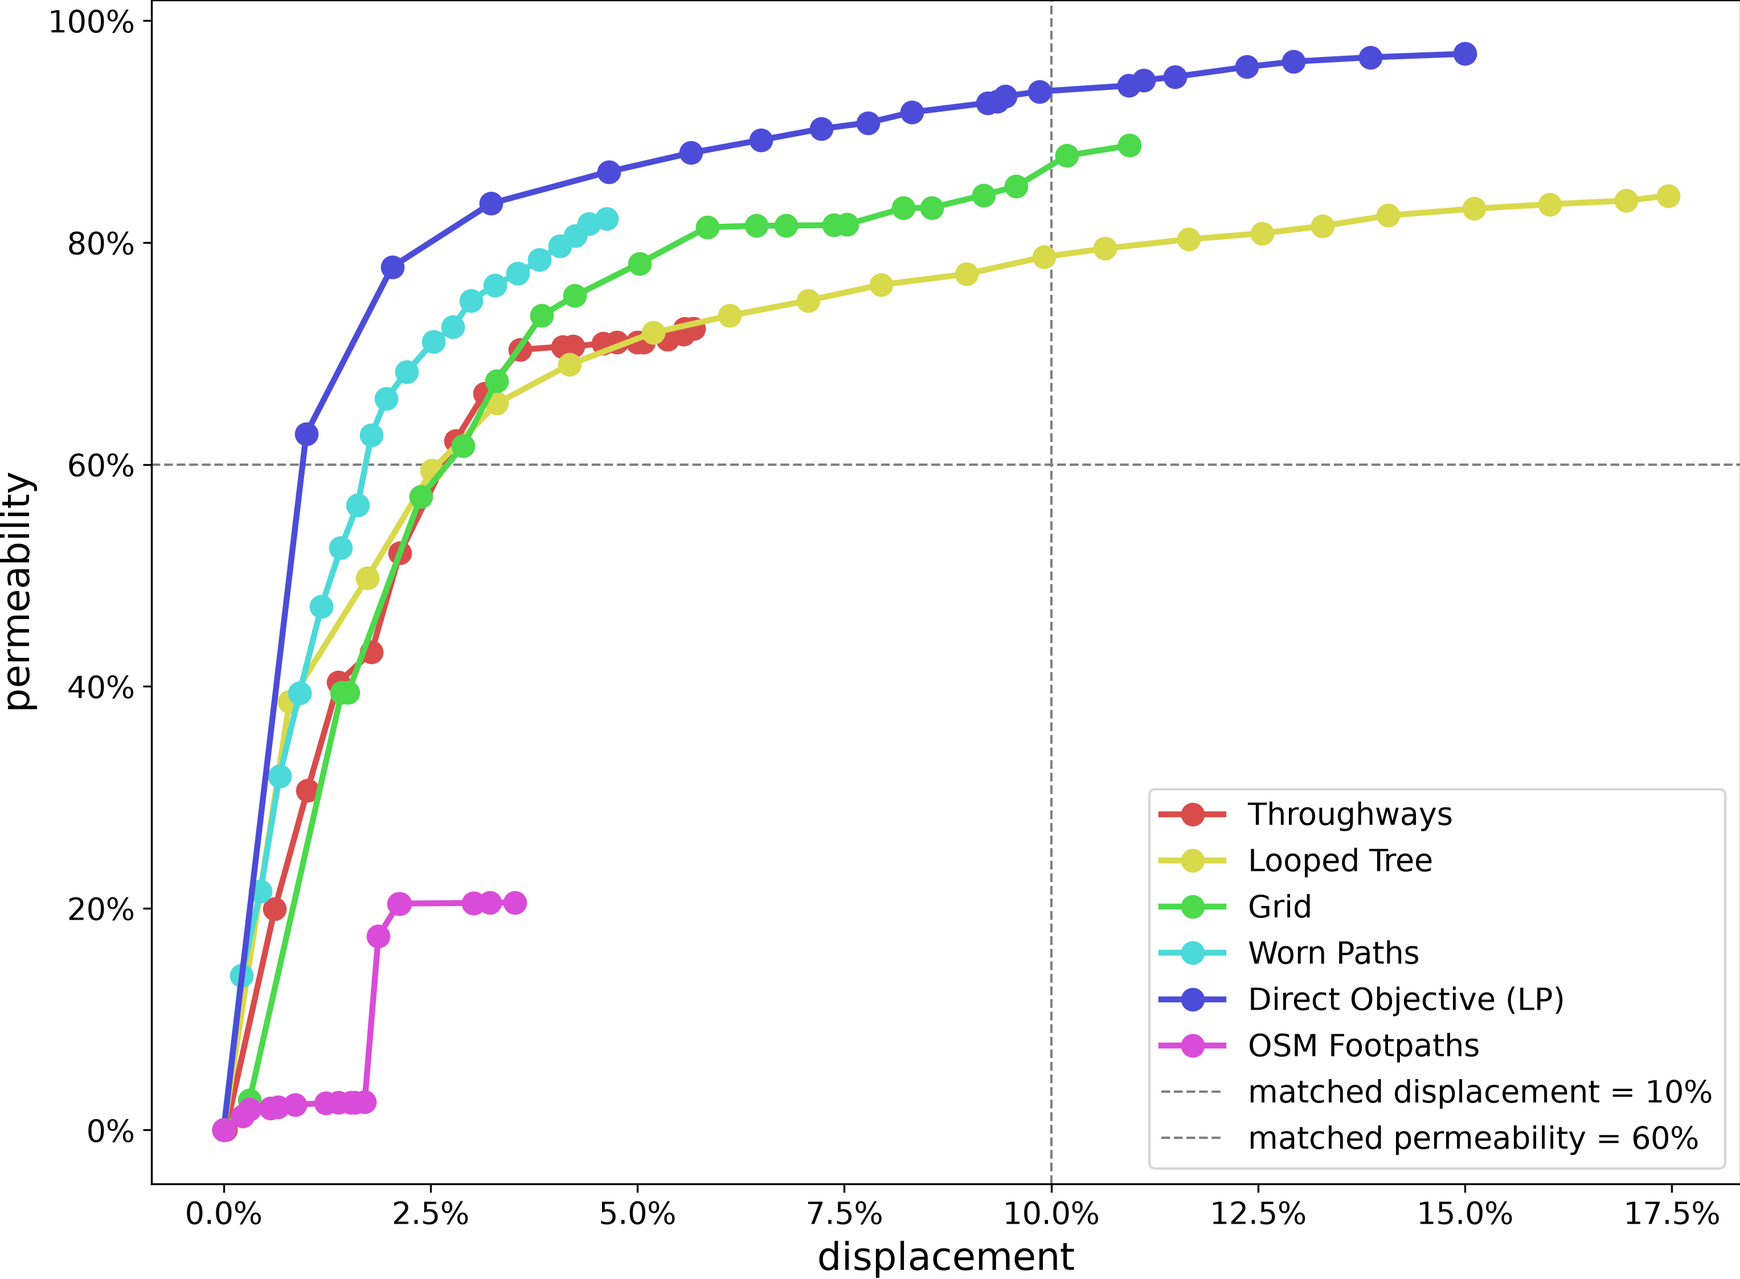
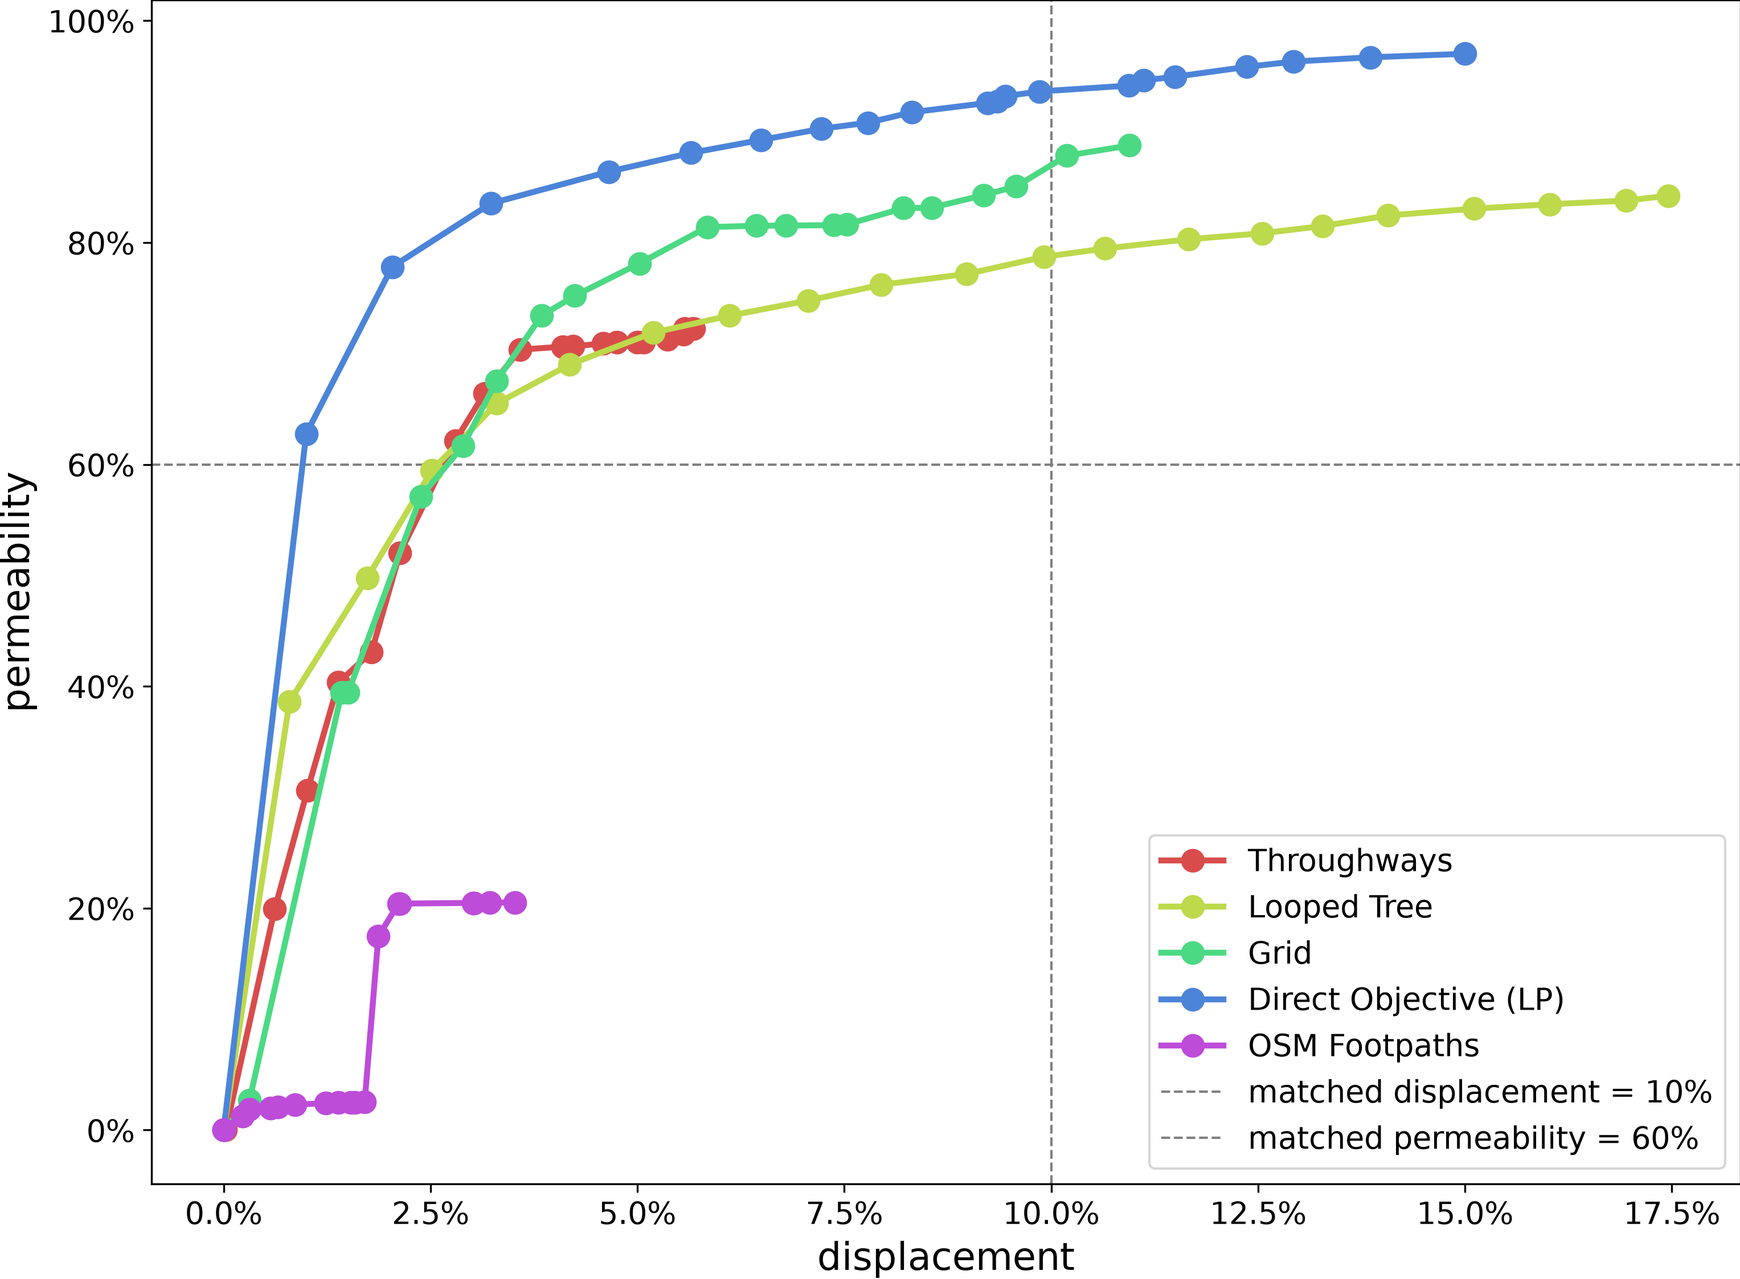
examples: drop flow_paths from the curated method set
Five methods now: clearance_looped (the flagship), greedy_arterial_repulsion,
euclidean_grid, resistance_lp, and osm_footpaths as the real-network reference
rather than a competitor -- it is a fixed input, so it is the one entry that can
fail to reach P*.

flow_paths exists as the real-footpath MIMICRY probe: it reproduces footpath
POSITION but not geometry, which answers a question about realism rather than
about reblocking quality. It stays registered in all_methods, and the module
docstring records the one measurement arguing for its return -- on the depth
region it reached P* with FEWER metres than any other method (2,088 m at 1.69%
against clearance_looped's 2,818 m at 2.68%), so it is not dominated and it sits
on that region's Pareto frontier.

Also fixes a module docstring that had gone stale: it claimed osm_footpaths was
LEFT OUT of the two-lens comparison, which stopped being true some time ago. It
now states what the curation is and why.

Lens B (primary), displacement to reach P* = 0.60:

  region              clearance_looped   resistance_lp
  depth               2,818 m / 2.68%    2,302 m / 0.92%   dominates both axes
  depth_density         965 m / 4.71%    1,338 m / 1.63%   2.9x fewer homes
  density_compactness 1,451 m / 5.46%    1,949 m / 4.28%   near-balanced

527 passed, lint and mypy --strict clean; no orphaned flow_paths artifacts.

Claude-Session: https://claude.ai/code/session_013nyiMR7YotYFswJtbJY25N

diff --git a/scripts/gen_multiblock_example.py b/scripts/gen_multiblock_example.py
@@ -5,10 +5,18 @@ colouring -- into `examples/multiblock_<metric>/`. Then the pure dir-reader gene
 (`scripts.gen_example_readme`) turns the run's artifacts + a small `meta.json` into `README.md`, so
 the prose can never drift from the numbers.
 
-`osm_footpaths` is left out of the two-lens method comparison here: its desire-line snapshot is
-region-specific and each metric picks a DIFFERENT region, so a fair osm run would need a fresh OSM
-fetch per variant. `clearance` + `greedy_arterial` already demonstrate the two lenses on whatever
-region the metric chose -- which is the point of the variant.
+The method set is curated, not the whole registry: four synthetic methods spanning distinct
+mechanisms -- `clearance_looped` (drainage tree + loop closure, the flagship),
+`greedy_arterial_repulsion` (CELF greedy), `euclidean_grid` (fixed spacing), `resistance_lp` (the
+objective optimized directly over paths) -- plus `osm_footpaths`, the real as-built network, as a
+reference rather than a competitor. It is a fixed input, so it is the one entry that can fail to
+reach P*.
+
+`flow_paths` was dropped from the comparison: it exists as the real-footpath MIMICRY probe (it
+reproduces footpath position but not geometry), which is a question about realism, not about
+reblocking quality. It stays registered in `all_methods` and is still worth re-adding if the
+question becomes "what do the synthetic methods miss" -- on the depth region it reached P* with
+FEWER metres than any other method, so it is not dominated.
 
 Run:  pixi run python -m scripts.gen_multiblock_example <depth|depth_density>
 """
@@ -140,7 +148,6 @@ def main() -> None:
         "all_methods.clearance_looped.base.max_roads=3000",
         "all_methods.clearance_looped.budget_frac=0.30",
         "all_methods.clearance_looped.search_radius_m=60",
-        "+all_methods.flow_paths.max_sources=1500",
         # `resistance_lp` is the only method with an INTERNAL displacement budget, so it must be
         # given headroom above the lens's own D or it is treated differently from everything else:
         # every other method proposes a full network and lets the lens truncate, while an LP capped
@@ -191,7 +198,7 @@ def main() -> None:
 
         methods = {n: cast(Method, instantiate(cfg.all_methods[n]))
                    for n in ("greedy_arterial_repulsion", "clearance_looped", "euclidean_grid",
-                             "flow_paths", "resistance_lp")}
+                             "resistance_lp")}
         # osm_footpaths: the real as-built informal network, from a committed per-region OSM
         # snapshot (fetched once by scripts.fetch_desire_lines_snapshot) so the example
         # reproduces offline.

diff --git a/examples/multiblock_depth/README.md b/examples/multiblock_depth/README.md
@@ -37,9 +37,9 @@ The frontier is the whole trade-off: **permeability** (benefit — the only bene
 
 **Watch each method reblock** — its full road set added in drainage order, the deep interior draining as the network reaches in:
 
-| Looped Tree | Grid | Worn Paths | Throughways | OSM Footpaths | Direct Objective (LP) |
-|---|---|---|---|---|---|
-| ![Looped Tree](reblock_clearance_looped.gif) | ![Grid](reblock_euclidean_grid.gif) | ![Worn Paths](reblock_flow_paths.gif) | ![Throughways](reblock_greedy_arterial_repulsion.gif) | ![OSM Footpaths](reblock_osm_footpaths.gif) | ![Direct Objective (LP)](reblock_resistance_lp.gif) |
+| Looped Tree | Grid | Throughways | OSM Footpaths | Direct Objective (LP) |
+|---|---|---|---|---|
+| ![Looped Tree](reblock_clearance_looped.gif) | ![Grid](reblock_euclidean_grid.gif) | ![Throughways](reblock_greedy_arterial_repulsion.gif) | ![OSM Footpaths](reblock_osm_footpaths.gif) | ![Direct Objective (LP)](reblock_resistance_lp.gif) |
 
 ### Matched permeability (primary)
 
@@ -49,22 +49,21 @@ Every method truncated where permeability first reaches the standard target, so 
 |---|---|---|---|---|
 | Looped Tree | 2,818 m | 2.7% | 60.2% |  |
 | Grid | 3,163 m | 2.8% | 61.6% |  |
-| Worn Paths | 2,088 m | 1.7% | 60.2% |  |
 | Throughways | 3,660 m | 2.8% | 60.3% |  |
 | OSM Footpaths | 7,674 m | 3.5% | 20.5% | unreached |
 | Direct Objective (LP) | 2,302 m | 0.9% | 60.5% |  |
 
 Access-depth coloring:
 
-| Looped Tree | Grid | Worn Paths | Throughways | OSM Footpaths | Direct Objective (LP) |
-|---|---|---|---|---|---|
-| ![Looped Tree](after_clearance_looped_perm_depth.png) | ![Grid](after_euclidean_grid_perm_depth.png) | ![Worn Paths](after_flow_paths_perm_depth.png) | ![Throughways](after_greedy_arterial_repulsion_perm_depth.png) | ![OSM Footpaths](after_osm_footpaths_perm_depth.png) | ![Direct Objective (LP)](after_resistance_lp_perm_depth.png) |
+| Looped Tree | Grid | Throughways | OSM Footpaths | Direct Objective (LP) |
+|---|---|---|---|---|
+| ![Looped Tree](after_clearance_looped_perm_depth.png) | ![Grid](after_euclidean_grid_perm_depth.png) | ![Throughways](after_greedy_arterial_repulsion_perm_depth.png) | ![OSM Footpaths](after_osm_footpaths_perm_depth.png) | ![Direct Objective (LP)](after_resistance_lp_perm_depth.png) |
 
 Permeability-potential coloring:
 
-| Looped Tree | Grid | Worn Paths | Throughways | OSM Footpaths | Direct Objective (LP) |
-|---|---|---|---|---|---|
-| ![Looped Tree](after_clearance_looped_perm_perm.png) | ![Grid](after_euclidean_grid_perm_perm.png) | ![Worn Paths](after_flow_paths_perm_perm.png) | ![Throughways](after_greedy_arterial_repulsion_perm_perm.png) | ![OSM Footpaths](after_osm_footpaths_perm_perm.png) | ![Direct Objective (LP)](after_resistance_lp_perm_perm.png) |
+| Looped Tree | Grid | Throughways | OSM Footpaths | Direct Objective (LP) |
+|---|---|---|---|---|
+| ![Looped Tree](after_clearance_looped_perm_perm.png) | ![Grid](after_euclidean_grid_perm_perm.png) | ![Throughways](after_greedy_arterial_repulsion_perm_perm.png) | ![OSM Footpaths](after_osm_footpaths_perm_perm.png) | ![Direct Objective (LP)](after_resistance_lp_perm_perm.png) |
 
 ### Matched displacement (secondary)
 
@@ -74,22 +73,21 @@ Every method truncated to the same displacement %, so this compares the **permea
 |---|---|---|---|---|
 | Looped Tree | 10,040 m | 10.0% | 78.7% |  |
 | Grid | 12,194 m | 10.2% | 87.8% |  |
-| Worn Paths | 5,635 m | 4.6% | 82.2% | converged below budget |
 | Throughways | 11,437 m | 5.7% | 72.3% | converged below budget |
 | OSM Footpaths | 7,674 m | 3.5% | 20.5% | converged below budget |
 | Direct Objective (LP) | 33,660 m | 10.0% | 93.7% |  |
 
 Access-depth coloring:
 
-| Looped Tree | Grid | Worn Paths | Throughways | OSM Footpaths | Direct Objective (LP) |
-|---|---|---|---|---|---|
-| ![Looped Tree](after_clearance_looped_disp_depth.png) | ![Grid](after_euclidean_grid_disp_depth.png) | ![Worn Paths](after_flow_paths_disp_depth.png) | ![Throughways](after_greedy_arterial_repulsion_disp_depth.png) | ![OSM Footpaths](after_osm_footpaths_disp_depth.png) | ![Direct Objective (LP)](after_resistance_lp_disp_depth.png) |
+| Looped Tree | Grid | Throughways | OSM Footpaths | Direct Objective (LP) |
+|---|---|---|---|---|
+| ![Looped Tree](after_clearance_looped_disp_depth.png) | ![Grid](after_euclidean_grid_disp_depth.png) | ![Throughways](after_greedy_arterial_repulsion_disp_depth.png) | ![OSM Footpaths](after_osm_footpaths_disp_depth.png) | ![Direct Objective (LP)](after_resistance_lp_disp_depth.png) |
 
 Permeability-potential coloring:
 
-| Looped Tree | Grid | Worn Paths | Throughways | OSM Footpaths | Direct Objective (LP) |
-|---|---|---|---|---|---|
-| ![Looped Tree](after_clearance_looped_disp_perm.png) | ![Grid](after_euclidean_grid_disp_perm.png) | ![Worn Paths](after_flow_paths_disp_perm.png) | ![Throughways](after_greedy_arterial_repulsion_disp_perm.png) | ![OSM Footpaths](after_osm_footpaths_disp_perm.png) | ![Direct Objective (LP)](after_resistance_lp_disp_perm.png) |
+| Looped Tree | Grid | Throughways | OSM Footpaths | Direct Objective (LP) |
+|---|---|---|---|---|
+| ![Looped Tree](after_clearance_looped_disp_perm.png) | ![Grid](after_euclidean_grid_disp_perm.png) | ![Throughways](after_greedy_arterial_repulsion_disp_perm.png) | ![OSM Footpaths](after_osm_footpaths_disp_perm.png) | ![Direct Objective (LP)](after_resistance_lp_disp_perm.png) |
 
 
 ## How this was generated

diff --git a/examples/multiblock_density_compactness/README.md b/examples/multiblock_density_compactness/README.md
@@ -37,9 +37,9 @@ The frontier is the whole trade-off: **permeability** (benefit — the only bene
 
 **Watch each method reblock** — its full road set added in drainage order, the deep interior draining as the network reaches in:
 
-| Looped Tree | Grid | Worn Paths | Throughways | OSM Footpaths | Direct Objective (LP) |
-|---|---|---|---|---|---|
-| ![Looped Tree](reblock_clearance_looped.gif) | ![Grid](reblock_euclidean_grid.gif) | ![Worn Paths](reblock_flow_paths.gif) | ![Throughways](reblock_greedy_arterial_repulsion.gif) | ![OSM Footpaths](reblock_osm_footpaths.gif) | ![Direct Objective (LP)](reblock_resistance_lp.gif) |
+| Looped Tree | Grid | Throughways | OSM Footpaths | Direct Objective (LP) |
+|---|---|---|---|---|
+| ![Looped Tree](reblock_clearance_looped.gif) | ![Grid](reblock_euclidean_grid.gif) | ![Throughways](reblock_greedy_arterial_repulsion.gif) | ![OSM Footpaths](reblock_osm_footpaths.gif) | ![Direct Objective (LP)](reblock_resistance_lp.gif) |
 
 ### Matched permeability (primary)
 
@@ -49,22 +49,21 @@ Every method truncated where permeability first reaches the standard target, so 
 |---|---|---|---|---|
 | Looped Tree | 1,451 m | 5.5% | 60.4% |  |
 | Grid | 3,678 m | 9.3% | 60.4% |  |
-| Worn Paths | 2,403 m | 7.9% | 60.1% |  |
 | Throughways | 3,569 m | 10.9% | 60.0% |  |
 | OSM Footpaths | 2,478 m | 8.0% | 60.1% |  |
 | Direct Objective (LP) | 1,949 m | 4.3% | 60.1% |  |
 
 Access-depth coloring:
 
-| Looped Tree | Grid | Worn Paths | Throughways | OSM Footpaths | Direct Objective (LP) |
-|---|---|---|---|---|---|
-| ![Looped Tree](after_clearance_looped_perm_depth.png) | ![Grid](after_euclidean_grid_perm_depth.png) | ![Worn Paths](after_flow_paths_perm_depth.png) | ![Throughways](after_greedy_arterial_repulsion_perm_depth.png) | ![OSM Footpaths](after_osm_footpaths_perm_depth.png) | ![Direct Objective (LP)](after_resistance_lp_perm_depth.png) |
+| Looped Tree | Grid | Throughways | OSM Footpaths | Direct Objective (LP) |
+|---|---|---|---|---|
+| ![Looped Tree](after_clearance_looped_perm_depth.png) | ![Grid](after_euclidean_grid_perm_depth.png) | ![Throughways](after_greedy_arterial_repulsion_perm_depth.png) | ![OSM Footpaths](after_osm_footpaths_perm_depth.png) | ![Direct Objective (LP)](after_resistance_lp_perm_depth.png) |
 
 Permeability-potential coloring:
 
-| Looped Tree | Grid | Worn Paths | Throughways | OSM Footpaths | Direct Objective (LP) |
-|---|---|---|---|---|---|
-| ![Looped Tree](after_clearance_looped_perm_perm.png) | ![Grid](after_euclidean_grid_perm_perm.png) | ![Worn Paths](after_flow_paths_perm_perm.png) | ![Throughways](after_greedy_arterial_repulsion_perm_perm.png) | ![OSM Footpaths](after_osm_footpaths_perm_perm.png) | ![Direct Objective (LP)](after_resistance_lp_perm_perm.png) |
+| Looped Tree | Grid | Throughways | OSM Footpaths | Direct Objective (LP) |
+|---|---|---|---|---|
+| ![Looped Tree](after_clearance_looped_perm_perm.png) | ![Grid](after_euclidean_grid_perm_perm.png) | ![Throughways](after_greedy_arterial_repulsion_perm_perm.png) | ![OSM Footpaths](after_osm_footpaths_perm_perm.png) | ![Direct Objective (LP)](after_resistance_lp_perm_perm.png) |
 
 ### Matched displacement (secondary)
 
@@ -74,22 +73,21 @@ Every method truncated to the same displacement %, so this compares the **permea
 |---|---|---|---|---|
 | Looped Tree | 2,710 m | 10.1% | 74.7% |  |
 | Grid | 3,945 m | 10.1% | 61.9% |  |
-| Worn Paths | 2,976 m | 10.0% | 67.2% |  |
 | Throughways | 3,254 m | 10.1% | 57.4% |  |
 | OSM Footpaths | 3,228 m | 10.2% | 65.4% |  |
 | Direct Objective (LP) | 5,557 m | 10.0% | 79.8% |  |
 
 Access-depth coloring:
 
-| Looped Tree | Grid | Worn Paths | Throughways | OSM Footpaths | Direct Objective (LP) |
-|---|---|---|---|---|---|
-| ![Looped Tree](after_clearance_looped_disp_depth.png) | ![Grid](after_euclidean_grid_disp_depth.png) | ![Worn Paths](after_flow_paths_disp_depth.png) | ![Throughways](after_greedy_arterial_repulsion_disp_depth.png) | ![OSM Footpaths](after_osm_footpaths_disp_depth.png) | ![Direct Objective (LP)](after_resistance_lp_disp_depth.png) |
+| Looped Tree | Grid | Throughways | OSM Footpaths | Direct Objective (LP) |
+|---|---|---|---|---|
+| ![Looped Tree](after_clearance_looped_disp_depth.png) | ![Grid](after_euclidean_grid_disp_depth.png) | ![Throughways](after_greedy_arterial_repulsion_disp_depth.png) | ![OSM Footpaths](after_osm_footpaths_disp_depth.png) | ![Direct Objective (LP)](after_resistance_lp_disp_depth.png) |
 
 Permeability-potential coloring:
 
-| Looped Tree | Grid | Worn Paths | Throughways | OSM Footpaths | Direct Objective (LP) |
-|---|---|---|---|---|---|
-| ![Looped Tree](after_clearance_looped_disp_perm.png) | ![Grid](after_euclidean_grid_disp_perm.png) | ![Worn Paths](after_flow_paths_disp_perm.png) | ![Throughways](after_greedy_arterial_repulsion_disp_perm.png) | ![OSM Footpaths](after_osm_footpaths_disp_perm.png) | ![Direct Objective (LP)](after_resistance_lp_disp_perm.png) |
+| Looped Tree | Grid | Throughways | OSM Footpaths | Direct Objective (LP) |
+|---|---|---|---|---|
+| ![Looped Tree](after_clearance_looped_disp_perm.png) | ![Grid](after_euclidean_grid_disp_perm.png) | ![Throughways](after_greedy_arterial_repulsion_disp_perm.png) | ![OSM Footpaths](after_osm_footpaths_disp_perm.png) | ![Direct Objective (LP)](after_resistance_lp_disp_perm.png) |
 
 
 ## How this was generated

diff --git a/examples/multiblock_depth_density/README.md b/examples/multiblock_depth_density/README.md
@@ -37,9 +37,9 @@ The frontier is the whole trade-off: **permeability** (benefit — the only bene
 
 **Watch each method reblock** — its full road set added in drainage order, the deep interior draining as the network reaches in:
 
-| Looped Tree | Grid | Worn Paths | Throughways | OSM Footpaths | Direct Objective (LP) |
-|---|---|---|---|---|---|
-| ![Looped Tree](reblock_clearance_looped.gif) | ![Grid](reblock_euclidean_grid.gif) | ![Worn Paths](reblock_flow_paths.gif) | ![Throughways](reblock_greedy_arterial_repulsion.gif) | ![OSM Footpaths](reblock_osm_footpaths.gif) | ![Direct Objective (LP)](reblock_resistance_lp.gif) |
+| Looped Tree | Grid | Throughways | OSM Footpaths | Direct Objective (LP) |
+|---|---|---|---|---|
+| ![Looped Tree](reblock_clearance_looped.gif) | ![Grid](reblock_euclidean_grid.gif) | ![Throughways](reblock_greedy_arterial_repulsion.gif) | ![OSM Footpaths](reblock_osm_footpaths.gif) | ![Direct Objective (LP)](reblock_resistance_lp.gif) |
 
 ### Matched permeability (primary)
 
@@ -49,22 +49,21 @@ Every method truncated where permeability first reaches the standard target, so 
 |---|---|---|---|---|
 | Looped Tree | 965 m | 4.7% | 60.1% |  |
 | Grid | 2,068 m | 7.8% | 66.1% |  |
-| Worn Paths | 1,137 m | 4.9% | 61.0% |  |
 | Throughways | 1,478 m | 5.1% | 60.9% |  |
 | OSM Footpaths | 4,760 m | 11.1% | 61.8% |  |
 | Direct Objective (LP) | 1,338 m | 1.6% | 60.3% |  |
 
 Access-depth coloring:
 
-| Looped Tree | Grid | Worn Paths | Throughways | OSM Footpaths | Direct Objective (LP) |
-|---|---|---|---|---|---|
-| ![Looped Tree](after_clearance_looped_perm_depth.png) | ![Grid](after_euclidean_grid_perm_depth.png) | ![Worn Paths](after_flow_paths_perm_depth.png) | ![Throughways](after_greedy_arterial_repulsion_perm_depth.png) | ![OSM Footpaths](after_osm_footpaths_perm_depth.png) | ![Direct Objective (LP)](after_resistance_lp_perm_depth.png) |
+| Looped Tree | Grid | Throughways | OSM Footpaths | Direct Objective (LP) |
+|---|---|---|---|---|
+| ![Looped Tree](after_clearance_looped_perm_depth.png) | ![Grid](after_euclidean_grid_perm_depth.png) | ![Throughways](after_greedy_arterial_repulsion_perm_depth.png) | ![OSM Footpaths](after_osm_footpaths_perm_depth.png) | ![Direct Objective (LP)](after_resistance_lp_perm_depth.png) |
 
 Permeability-potential coloring:
 
-| Looped Tree | Grid | Worn Paths | Throughways | OSM Footpaths | Direct Objective (LP) |
-|---|---|---|---|---|---|
-| ![Looped Tree](after_clearance_looped_perm_perm.png) | ![Grid](after_euclidean_grid_perm_perm.png) | ![Worn Paths](after_flow_paths_perm_perm.png) | ![Throughways](after_greedy_arterial_repulsion_perm_perm.png) | ![OSM Footpaths](after_osm_footpaths_perm_perm.png) | ![Direct Objective (LP)](after_resistance_lp_perm_perm.png) |
+| Looped Tree | Grid | Throughways | OSM Footpaths | Direct Objective (LP) |
+|---|---|---|---|---|
+| ![Looped Tree](after_clearance_looped_perm_perm.png) | ![Grid](after_euclidean_grid_perm_perm.png) | ![Throughways](after_greedy_arterial_repulsion_perm_perm.png) | ![OSM Footpaths](after_osm_footpaths_perm_perm.png) | ![Direct Objective (LP)](after_resistance_lp_perm_perm.png) |
 
 ### Matched displacement (secondary)
 
@@ -74,22 +73,21 @@ Every method truncated to the same displacement %, so this compares the **permea
 |---|---|---|---|---|
 | Looped Tree | 2,271 m | 10.1% | 78.4% |  |
 | Grid | 2,696 m | 10.5% | 70.6% |  |
-| Worn Paths | 2,085 m | 10.0% | 75.6% |  |
 | Throughways | 3,625 m | 10.2% | 73.0% |  |
 | OSM Footpaths | 4,607 m | 10.1% | 58.5% |  |
 | Direct Objective (LP) | 6,957 m | 10.0% | 88.3% |  |
 
 Access-depth coloring:
 
-| Looped Tree | Grid | Worn Paths | Throughways | OSM Footpaths | Direct Objective (LP) |
-|---|---|---|---|---|---|
-| ![Looped Tree](after_clearance_looped_disp_depth.png) | ![Grid](after_euclidean_grid_disp_depth.png) | ![Worn Paths](after_flow_paths_disp_depth.png) | ![Throughways](after_greedy_arterial_repulsion_disp_depth.png) | ![OSM Footpaths](after_osm_footpaths_disp_depth.png) | ![Direct Objective (LP)](after_resistance_lp_disp_depth.png) |
+| Looped Tree | Grid | Throughways | OSM Footpaths | Direct Objective (LP) |
+|---|---|---|---|---|
+| ![Looped Tree](after_clearance_looped_disp_depth.png) | ![Grid](after_euclidean_grid_disp_depth.png) | ![Throughways](after_greedy_arterial_repulsion_disp_depth.png) | ![OSM Footpaths](after_osm_footpaths_disp_depth.png) | ![Direct Objective (LP)](after_resistance_lp_disp_depth.png) |
 
 Permeability-potential coloring:
 
-| Looped Tree | Grid | Worn Paths | Throughways | OSM Footpaths | Direct Objective (LP) |
-|---|---|---|---|---|---|
-| ![Looped Tree](after_clearance_looped_disp_perm.png) | ![Grid](after_euclidean_grid_disp_perm.png) | ![Worn Paths](after_flow_paths_disp_perm.png) | ![Throughways](after_greedy_arterial_repulsion_disp_perm.png) | ![OSM Footpaths](after_osm_footpaths_disp_perm.png) | ![Direct Objective (LP)](after_resistance_lp_disp_perm.png) |
+| Looped Tree | Grid | Throughways | OSM Footpaths | Direct Objective (LP) |
+|---|---|---|---|---|
+| ![Looped Tree](after_clearance_looped_disp_perm.png) | ![Grid](after_euclidean_grid_disp_perm.png) | ![Throughways](after_greedy_arterial_repulsion_disp_perm.png) | ![OSM Footpaths](after_osm_footpaths_disp_perm.png) | ![Direct Objective (LP)](after_resistance_lp_disp_perm.png) |
 
 
 ## How this was generated
